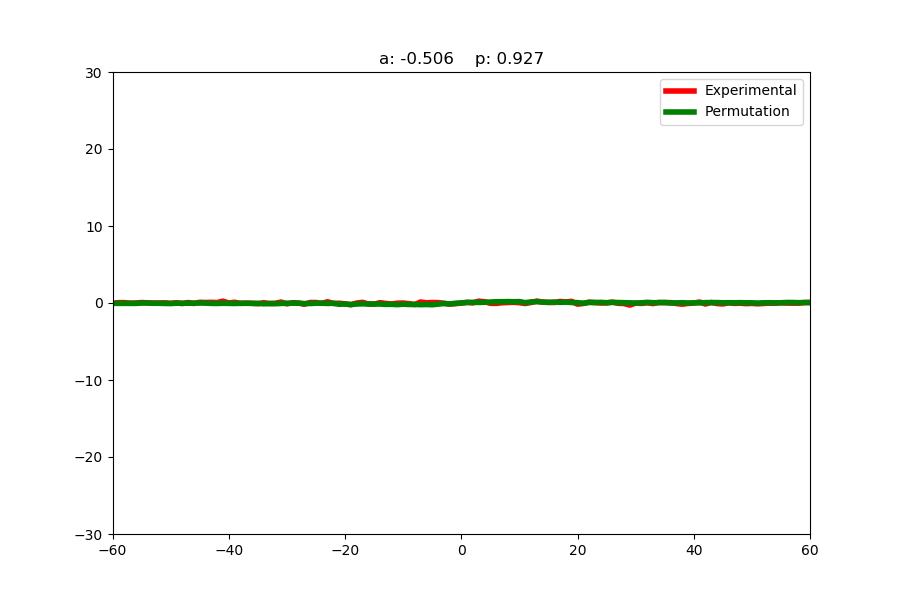
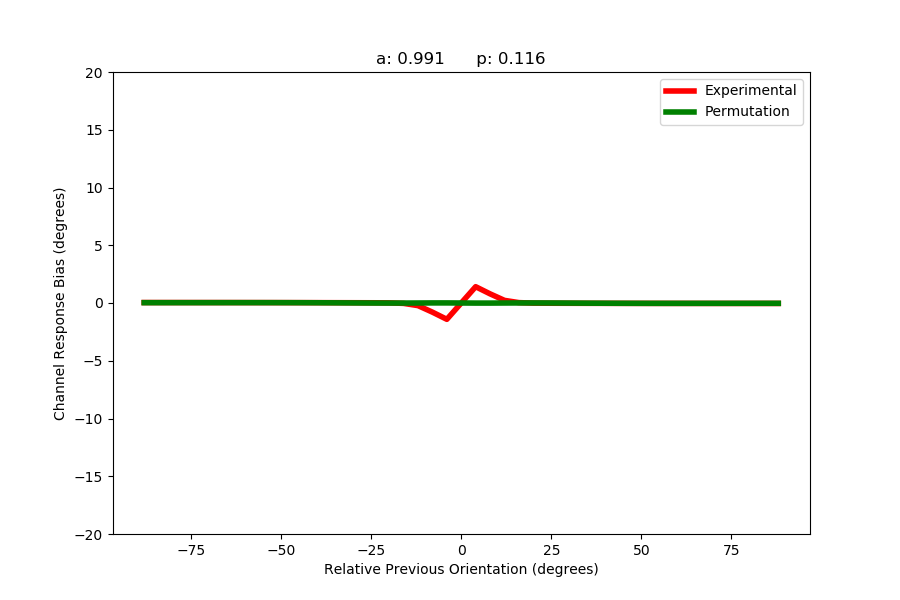
IEM bias stuff

diff --git a/code/IEM_ori_MEG.py b/code/IEM_ori_MEG.py
@@ -456,21 +456,20 @@ def run_DoG_trial(ch_bias, diffs, bootstrap_size=10000, permutation_test=False):
     result = gmodel.fit(ch_bias_bootstrap, x=diffs_bootstrap, b=0.03)
     return result.best_fit, diffs_bootstrap, result.params["a"]
 
-def iem_sd_dog(n_ori_chans, n_exp_tests=2, n_bootstraps=1000, bootstrap_size=10000, n_permutations=100000, n_timesteps=16):
+def iem_sd_dog(n_ori_chans, n_bins=15, n_exp_tests=2, n_bootstraps=1000, bootstrap_size=10000, n_permutations=100000, n_timesteps=16):
     model = InvertedEncoder(n_ori_chans)
-    #meg_subj_lst = ["KA", "AK"]
+    meg_subj_lst = ["KA", "AK"]
     
 
-    a_list = np.zeros((n_timesteps, len(meg_subj_lst), n_bootstraps))
-    a_perm_list = np.zeros((n_timesteps, len(meg_subj_lst), n_bootstraps))
+    a_list = np.zeros((n_timesteps, n_permutations))
+    a_perm_list = np.zeros((n_timesteps, n_permutations))
 
-    best_fit_list = [[[], []] for _ in range(n_timesteps)]
-    best_perm_fit_list = [[[], []] for _ in range(n_timesteps)]
+    bins = np.zeros((n_timesteps, n_bins, len(meg_subj_lst), n_exp_tests))
+    perm_bins = np.zeros((n_timesteps, n_bins, len(meg_subj_lst), n_exp_tests))
 
     for count, subj in enumerate(meg_subj_lst):
         print(subj)
         diffs_list = []
-        ch_bias_list = [[] for i in range(n_timesteps)]
 
 
         for i in range(n_exp_tests):
@@ -479,80 +478,107 @@ def iem_sd_dog(n_ori_chans, n_exp_tests=2, n_bootstraps=1000, bootstrap_size=100
             diffs_list.extend(diffs)
             
 
+            
+            diff_bins = np.minimum(np.floor((diffs + 90) / (180 / n_bins)), n_bins - 1).astype(int)
+            diff_bins_copy = np.copy(diff_bins)
+            np.random.shuffle(diff_bins_copy)
+
             for j in range(n_timesteps):
-                ch_bias_list[j].extend(calc_sd_bias(coeffs, j, diffs))
 
-        diffs_list = np.array(diffs_list)
-        ch_bias_list = [np.array(ch_bias_list[j]) for j in range(n_timesteps)]
+                for k in range(n_bins):
+                    bin_response = np.mean(np.argmax(coeffs[diff_bins == k, :, j], axis=1) * 20) - 80
+                    bins[j, k, count, i] = bin_response
+                    
+                    
+                    
+                    bin_response = np.mean(np.argmax(coeffs[diff_bins_copy == k, :, j], axis=1) * 20) - 80
+                    perm_bins[j, k, count, i] = bin_response
 
-        for i in range(n_bootstraps):
-            print("Bootstrap %i" % i)
-            for j in range(n_timesteps):
-                bootstrap_idx = np.random.choice(len(diffs_list), bootstrap_size, replace=True)
-                boot_diffs = diffs_list[bootstrap_idx]
-                boot_bias = ch_bias_list[j][bootstrap_idx]
-                plt.show()
+    bin_half_width = (180 / n_bins) / 2
+    xs = np.linspace(-90 + bin_half_width, 90 - bin_half_width, n_bins)
+    p_values = np.zeros(n_timesteps)
+    fit_list = [[[], []] for i in range(16)]
+    perm_fit_list = [[[], []] for i in range(16)]
+    for i in range(n_timesteps):
+        print(i)
+        for k in range(n_permutations):
+            #print(i)
+            diff_lst = []
+            bias_lst = []
+            perm_bias_lst = []
 
-                gmodel = init_gmodel()
-                result = gmodel.fit(boot_bias, x=boot_diffs, b=0.03)
 
-                a_list[j, count, i] = result.params["a"]
+            for j in range(n_bins):
+            
+                ts_bin = bins[i, j, :, :].flatten()
+                ts_perm_bin = perm_bins[i, j, :, :].flatten()
+
+                boot = np.random.choice(ts_bin, bootstrap_size, replace=True)
+                bias_lst.extend(boot)
                 
-                best_fit_list[j][0].extend(boot_diffs)
-                best_fit_list[j][1].extend(result.best_fit)
+                boot_perm = np.random.choice(ts_perm_bin, bootstrap_size, replace=True)
+                perm_bias_lst.extend(boot_perm)
 
-        for i in range(n_bootstraps):
-            print("Permutation Bootstrap %i" % i)
-            for j in range(n_timesteps):
-                bootstrap_idx = np.random.choice(len(diffs_list), bootstrap_size, replace=True)
-                boot_diffs = diffs_list[bootstrap_idx]
-                boot_bias = ch_bias_list[j][bootstrap_idx]
-                np.random.shuffle(boot_diffs)
+                diff_lst.extend(np.ones(bootstrap_size) * xs[j])
 
-                gmodel = init_gmodel()
-                result = gmodel.fit(boot_bias, x=boot_diffs, b=0.03)
 
-                a_perm_list[j, count, i] = result.params["a"]
+            shuffle_idx = np.random.choice(bootstrap_size * n_bins, bootstrap_size * n_bins, replace=False)
+            diff_lst = np.array(diff_lst)[shuffle_idx]
+            perm_diff_lst = np.copy(diff_lst)
+            bias_lst = np.array(bias_lst)[shuffle_idx]
+            perm_bias_lst = np.array(perm_bias_lst)[shuffle_idx]
+
+            diff_lst = diff_lst[np.abs(bias_lst) < 30]
+            bias_lst = bias_lst[np.abs(bias_lst) < 30]
+
+            perm_diff_lst = perm_diff_lst[np.abs(perm_bias_lst) < 30]
+            perm_bias_lst = perm_bias_lst[np.abs(perm_bias_lst) < 30]
+
+
+            np.random.shuffle(perm_diff_lst)
+
+
+            model = init_gmodel()
+            result = model.fit(bias_lst, x=diff_lst, b=0.03)
+            a_list[i, k] = result.params["a"]
+            
+
+            model = init_gmodel()
+            perm_result = model.fit(perm_bias_lst, x=perm_diff_lst, b=0.03)
+            a_perm_list[i, k] = perm_result.params["a"]
+
+            if np.abs(result.params["a"]) <= np.abs(perm_result.params["a"]):
+                p_values[i] += 1
+
+            if k % 50 == 0:
+                fit_list[i][0].extend(result.best_fit)
+                fit_list[i][1].extend(diff_lst)
+
+                perm_fit_list[i][0].extend(perm_result.best_fit)
                 
-                best_perm_fit_list[j][0].extend(boot_diffs)
-                best_perm_fit_list[j][1].extend(result.best_fit)
+                perm_fit_list[i][1].extend(perm_diff_lst)
 
-        
-    print("finished first bootstrap")
-    a_list = [a_list[i].flatten() for i in range(n_timesteps)]
-    a_perm_list = [a_perm_list[i].flatten() for i in range(n_timesteps)]
+    p_values /= (n_permutations)
 
-    p_value = np.zeros(n_timesteps)
-    for i in range(n_permutations):
-        print("Amplitude bootstrap %i" %i)
-        for j in range(n_timesteps):
-            bootstrap_idx = np.random.choice(len(a_list[j]), bootstrap_size, replace=True)
-            boot_a_list = a_list[j][bootstrap_idx]
+    
+    #perm_fit_list = np.array(perm_fit_list)
+    #fit_list = np.array(fit_list)
 
-            bootstrap_idx = np.random.choice(len(a_perm_list[j]), bootstrap_size, replace=True)
-            boot_a_perm_list = a_perm_list[j][bootstrap_idx]
-
-            if boot_a_perm_list.mean() >= boot_a_list.mean():
-                p_value[j] += 1
-
-    p_value = p_value / n_permutations
-
-    for j in range(n_timesteps):
+    for i in range(n_timesteps):
+        print(i)
+    
         plt.figure(figsize=(9, 6))
-        sns.lineplot(best_fit_list[j][0], best_fit_list[j][1], linewidth=4, color="red", label="Experimental")
-        sns.lineplot(best_perm_fit_list[j][0], best_perm_fit_list[j][1], linewidth=4, color="green", label="Permutation")
-        plt.xlim((-60, 60))
-        plt.ylim((-30, 30))
-        plt.legend()
-        plt.title("a: {:.3f}    p: {:.3f}".format(a_list[j].mean(), p_value[j]))
-        plt.savefig("../Figures/final_results/bias/bias_dog_t%i.png" % j)
+        sns.lineplot(fit_list[i][1], fit_list[i][0], label="Experimental", linewidth=4, color="red")
+        sns.lineplot(perm_fit_list[i][1], perm_fit_list[i][0], label="Permutation", linewidth=4, color="green")
+        plt.ylim((-20, 20))
+        plt.title("a: {:.3f}      p: {:.3f}".format(a_list[i].mean(), p_values[i]))
+        plt.xlabel("Relative Previous Orientation (degrees)")
+        plt.ylabel("Channel Response Bias (degrees)")
+        plt.savefig("../Figures/final_results/bias/bias_dog_t%i.png" % i)
         plt.clf()
 
 
-    print(p_value)
-    print(np.array(a_list).mean(1))
-    print(np.array(a_perm_list).mean(1))
-        
+
 
 
 def iem_sd_all(n_ori_chans, n_bins=15, percept_data=False, n_p_tests=100, n_exp_tests=25, n_timesteps=16):
@@ -644,118 +670,6 @@ def iem_sd_all(n_ori_chans, n_bins=15, percept_data=False, n_p_tests=100, n_exp_
         plt.clf()
     return
 
-def iem_sd_all_v2(n_ori_chans, n_bins=15, percept_data=False, n_p_tests=100, n_exp_tests=25, n_timesteps=16):
-    IEM = InvertedEncoder(n_ori_chans)
-    avg_response = np.zeros((n_ori_chans, n_timesteps))
-
-    coeffs_list = []
-    diffs_list = []
-   
-    bin_accuracies = np.zeros((n_exp_tests, n_bins, n_ori_chans, n_timesteps))
-    for i in range(n_exp_tests):
-        print("Experimental Test: %i" % i)
-        for subj in meg_subj_lst:
-            coeffs, diffs = IEM.run_sd_dog(subj)
-            coeffs_list.extend(coeffs)
-            diffs_list.extend(diffs)
-        
-    bins = np.zeros((n_bins, n_ori_chans, n_timesteps))
-    
-    coeffs_list = np.array(coeffs_list)
-    diffs_list = np.array(diffs_list).astype(int)
-
-    for i in range(n_bins):
-        bins[i] = np.sum(coeffs_list[diffs_list == i], axis=0)
-        bins[i] /= len(diffs_list[diffs_list == i])
-
-    avg_response = coeffs_list.mean(axis=0)
-
-    perm_bin_sizes = np.zeros(n_bins)
-    perm_bins = np.zeros((n_bins, n_ori_chans, n_timesteps))
-    perm_diffs_list = diffs_list[:]
-    for i in range(n_p_tests):
-        for j in range(n_bins):
-            np.random.shuffle(perm_diffs_list)
-            perm_bins[j] += np.sum(coeffs_list[perm_diffs_list == j], axis=0)
-            perm_bin_sizes[j] += len(perm_diffs_list[perm_diffs_list==j])
-
-    for i in range(n_bins):
-        perm_bins[i] /= perm_bin_sizes[i]
-
-    
-
-
-
-    perm_bin_accuracies = np.zeros((n_p_tests, n_bins, n_ori_chans, n_timesteps))
-    for i in range(n_p_tests):
-        print("Permutation Test: %i" %i)
-        bin_sizes = np.zeros(n_bins)
-        bins = np.zeros((n_bins, n_ori_chans, n_timesteps))
-        for subj in meg_subj_lst:
-            temp_bins, temp_bin_sizes = IEM.run_sd_subject(subj, n_bins=n_bins, permutation_test=True)
-            bins += temp_bins
-            bin_sizes += temp_bin_sizes
-        
-        for j in range(n_timesteps):
-            perm_bin_accuracies[i, :, :, j] = bins[:, :, j] / bin_sizes[:, None]
-
-    perm_avg_bin_accuracies = np.zeros(perm_bin_accuracies.shape)
-    avg_bin_accuracies = np.zeros(bin_accuracies.shape)
-    for i in range(n_p_tests):
-        for j in range(n_timesteps):
-            perm_avg_bin_accuracies[i, :, :, j] += perm_bin_accuracies[i, :, :, j] - avg_response[:, j]
-        
-    for i in range(n_exp_tests):
-        for j in range(n_timesteps):
-            avg_bin_accuracies[i, :, :, j] += bin_accuracies[i, :, :, j] - avg_response[:, j]
-
-    ptest_comp = np.zeros((n_bins, n_ori_chans, n_timesteps))
-    for i in range(n_p_tests):
-        for j in range(n_exp_tests):
-            gr_eq_vals = np.abs(perm_avg_bin_accuracies[i, :, :, :]) >= np.abs(avg_bin_accuracies[j, :, :, :])
-            ptest_comp[gr_eq_vals] += 1.0
-    ptest_comp /= (n_p_tests * n_exp_tests)
-        
-    for j in range(n_timesteps):
-        figure = plt.figure(figsize=(8,15))
-
-        
-
-        ax0 = figure.add_subplot(3, 1, 1)
-        im0 = ax0.imshow(bin_accuracies[:, :, :, j].mean(axis=0).T, aspect="equal", vmin=0.15, vmax=0.35)
-        ax0.set_xlabel("Relative Previous Orientation")
-        figure.colorbar(im0, ax=ax0)
-        plt.xticks(ticks=np.arange(-0.5, n_bins+0.5, 1), labels=np.linspace(-90, 90, n_bins+1).astype(int))
-        plt.yticks(ticks=np.arange(-0.5, n_ori_chans+0.5, 1), labels=np.arange(0, 180, 180 / n_ori_chans).astype(int))
-        plt.ylabel("Channel response")
-        plt.title("Channel response binned by previous orientation, t=%d" % j)
-
-        ax1 = figure.add_subplot(3, 1, 2)
-        im1 = ax1.imshow(perm_bin_accuracies[:, :, :, j].mean(axis=0).T, aspect="equal", vmin=0.15, vmax=0.35)
-        ax1.set_xlabel("Relative Previous Orientation")
-        figure.colorbar(im1, ax=ax1)
-
-        plt.xticks(ticks=np.arange(-0.5, n_bins+0.5, 1), labels=np.linspace(-90, 90, n_bins+1).astype(int))
-        plt.yticks(ticks=np.arange(-0.5, n_ori_chans+0.5, 1), labels=np.arange(0, 180, 180 / n_ori_chans).astype(int))
-        plt.ylabel("Channel response")
-        plt.title("Permutation")
-
-        ax2 = figure.add_subplot(3, 1, 3)
-        im2 = ax2.imshow(ptest_comp[:, :, j].T, aspect="equal", vmin=0, vmax=1)
-        ax2.set_xlabel("Relative Previous Orientation")
-        figure.colorbar(im2, ax=ax2)
-
-        plt.xticks(ticks=np.arange(-0.5, n_bins+0.5, 1), labels=np.linspace(-90, 90, n_bins+1).astype(int))
-        plt.yticks(ticks=np.arange(-0.5, n_ori_chans+0.5, 1), labels=np.arange(0, 180, 180 / n_ori_chans).astype(int))
-        plt.ylabel("Channel response")
-        plt.title("P Value")
-        
-        
-        
-        plt.savefig("../Figures/IEM/python_files/sd_all_t%d.png" % j)
-        plt.clf()
-    return
-
 def correlate_prev_curr():
     current = run_all_subjects(9, n_exp_tests=2, n_p_tests=1)
     current = current.mean(0)
@@ -773,8 +687,9 @@ def correlate_prev_curr():
     plt.clf()
 
 def main():
-    correlate_prev_curr()
-    #iem_sd_dog(9, n_exp_tests=10, n_bootstraps=100, n_permutations=1000, bootstrap_size=1000)
+    #correlate_prev_curr()
+    #iem_sd_dog(9, n_bins=45, n_exp_tests=100, n_bootstraps=100, n_permutations=1000, bootstrap_size=1000)
+    iem_sd_all(9)
 
 if __name__ == "__main__":
     main()
